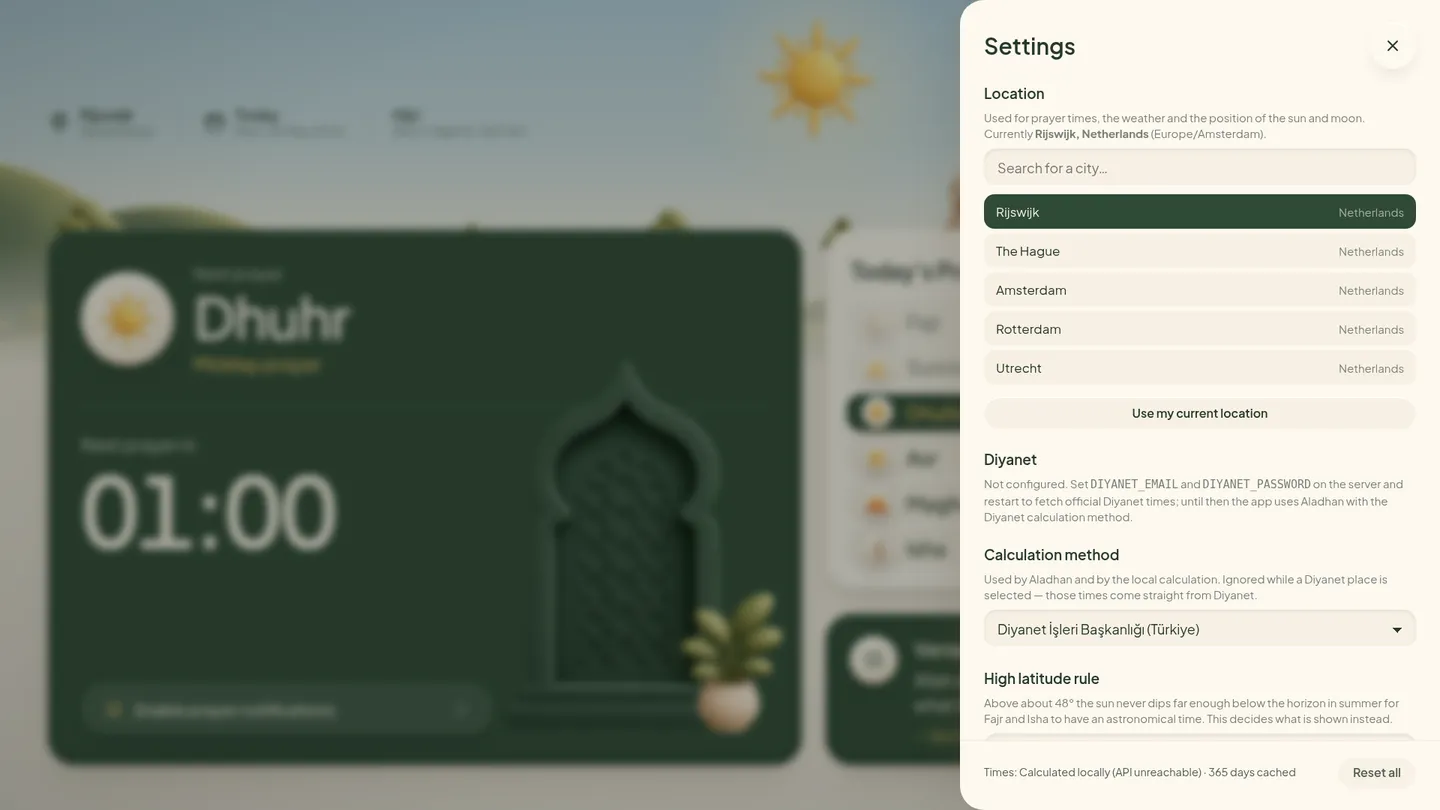
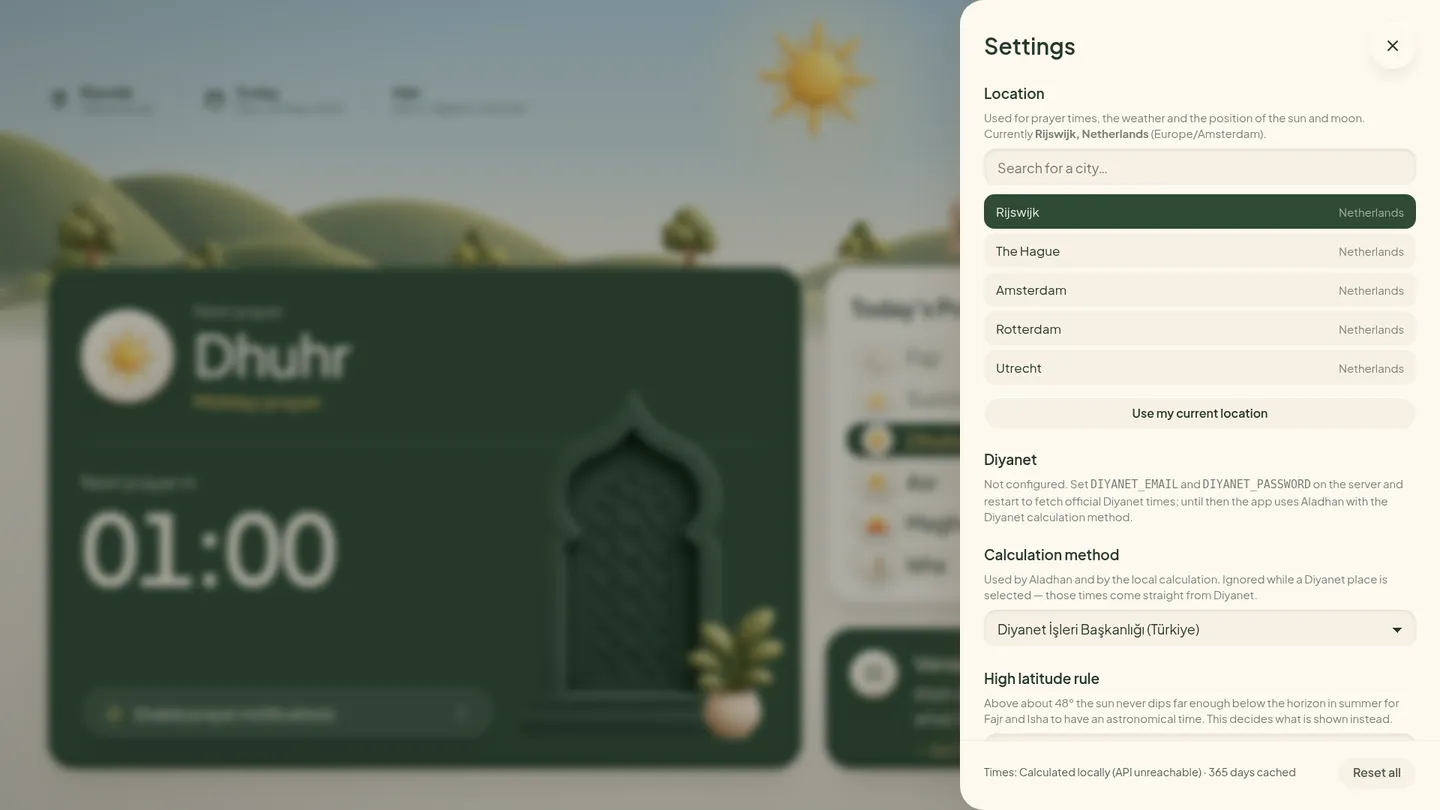
Give the landscape a real band instead of a sliver
Only 91px of hills were visible between the horizon and the cards, under 211px
of empty sky. Rebalanced from both ends:

- Header moves up (10rem of top padding, was 13rem) and the card grid starts
  lower (19rem margin, was 11rem), so the cards are ~45px shorter and sit
  further down.
- The hill band moves up with them (land box 44%, was 48%).
- The fade that dissolves the hills into the ground now starts below the card
  line rather than partway up the visible band, where it was washing out the
  part you could actually see.
- Trees, bushes and the mosque drop to sit on the new ridge line.

Visible landscape goes from 91px to 184px against 168px of sky. The celestial
arc is unchanged and still correct: altitude 0 maps below the new ridge, so a
low sun still sets behind the hills.

On a stacked phone layout the arc put the sun on top of the date, so the
bodies shrink and lift clear there.

diff --git a/components/scene/SceneBackground.tsx b/components/scene/SceneBackground.tsx
@@ -97,13 +97,13 @@ function buildClouds(cloudiness: number, raining: boolean): CloudSprite[] {
 
 /** Trees and bush clumps standing in front of the hill band. */
 const SCENERY: Array<{ src: string; left: string; bottom: string; width: string }> = [
-  { src: '/scene/tree.webp', left: '4%', bottom: '30%', width: '8rem' },
-  { src: '/scene/bushes.webp', left: '11%', bottom: '28%', width: '10rem' },
-  { src: '/scene/bushes.webp', left: '31%', bottom: '33%', width: '8rem' },
-  { src: '/scene/tree.webp', left: '45%', bottom: '31%', width: '6.5rem' },
-  { src: '/scene/bushes.webp', left: '57%', bottom: '36%', width: '7rem' },
-  { src: '/scene/tree.webp', left: '85%', bottom: '32%', width: '7.5rem' },
-  { src: '/scene/bushes.webp', left: '93%', bottom: '29%', width: '9rem' },
+  { src: '/scene/tree.webp', left: '4%', bottom: '22%', width: '9rem' },
+  { src: '/scene/bushes.webp', left: '12%', bottom: '19%', width: '11rem' },
+  { src: '/scene/bushes.webp', left: '31%', bottom: '25%', width: '9rem' },
+  { src: '/scene/tree.webp', left: '46%', bottom: '23%', width: '7.5rem' },
+  { src: '/scene/bushes.webp', left: '58%', bottom: '28%', width: '8rem' },
+  { src: '/scene/tree.webp', left: '86%', bottom: '24%', width: '8.5rem' },
+  { src: '/scene/bushes.webp', left: '94%', bottom: '21%', width: '10rem' },
 ];
 
 export interface SceneState {

diff --git a/app/scene.css b/app/scene.css
@@ -184,14 +184,16 @@
   top: 0;
   left: 0;
   right: 0;
-  height: 48%;
+  height: 44%;
 }
 
 /* Dissolves the base of the hills into the ground the cards stand on. */
 .land::after {
   content: '';
   position: absolute;
-  inset: 62% 0 -4% 0;
+  /* Starts below the card line, so the fade never washes out the band the
+     viewer can actually see. */
+  inset: 74% 0 -4% 0;
   background: linear-gradient(to bottom, transparent, var(--page-bg) 76%);
 }
 
@@ -217,7 +219,7 @@
   /* Placed so the dome clears the weather chip and the minaret passes just to
      its left; the reference has an empty top-right corner, this layout does not. */
   right: 20%;
-  bottom: 40%;
+  bottom: 28%;
   width: 28rem;
   aspect-ratio: 1200 / 1023;
 }
@@ -427,11 +429,17 @@
     display: none;
   }
 
+  /* The arc is sized for a 16:9 frame; on a stacked phone layout it lands on
+     the header, so the bodies shrink and lift clear of it. */
   .celestial--sun {
-    width: 11rem;
+    width: 8.5rem;
   }
 
   .celestial--moon {
-    width: 8rem;
+    width: 6.5rem;
+  }
+
+  .celestial {
+    transform: translate(-50%, -50%) translateY(-4rem);
   }
 }

diff --git a/app/globals.css b/app/globals.css
@@ -128,9 +128,9 @@ button {
   position: relative;
   display: flex;
   flex-direction: column;
-  /* The tall top padding is the design: it leaves the landscape visible
-     above the cards instead of cropping it to a strip. */
-  padding: 13rem 6.4rem 6rem;
+  /* The header sits high and the cards start low, so the landscape gets a
+     real band between them rather than a sliver. */
+  padding: 10rem 6.4rem 5.5rem;
   height: 100vh;
   height: 100dvh;
   isolation: isolate;
@@ -142,7 +142,7 @@ button {
   gap: 3.2rem;
   flex: 1;
   min-height: 0;
-  margin-top: 11rem;
+  margin-top: 19rem;
 }
 
 /* Grid rather than flex so both cards are bounded by the column height and
